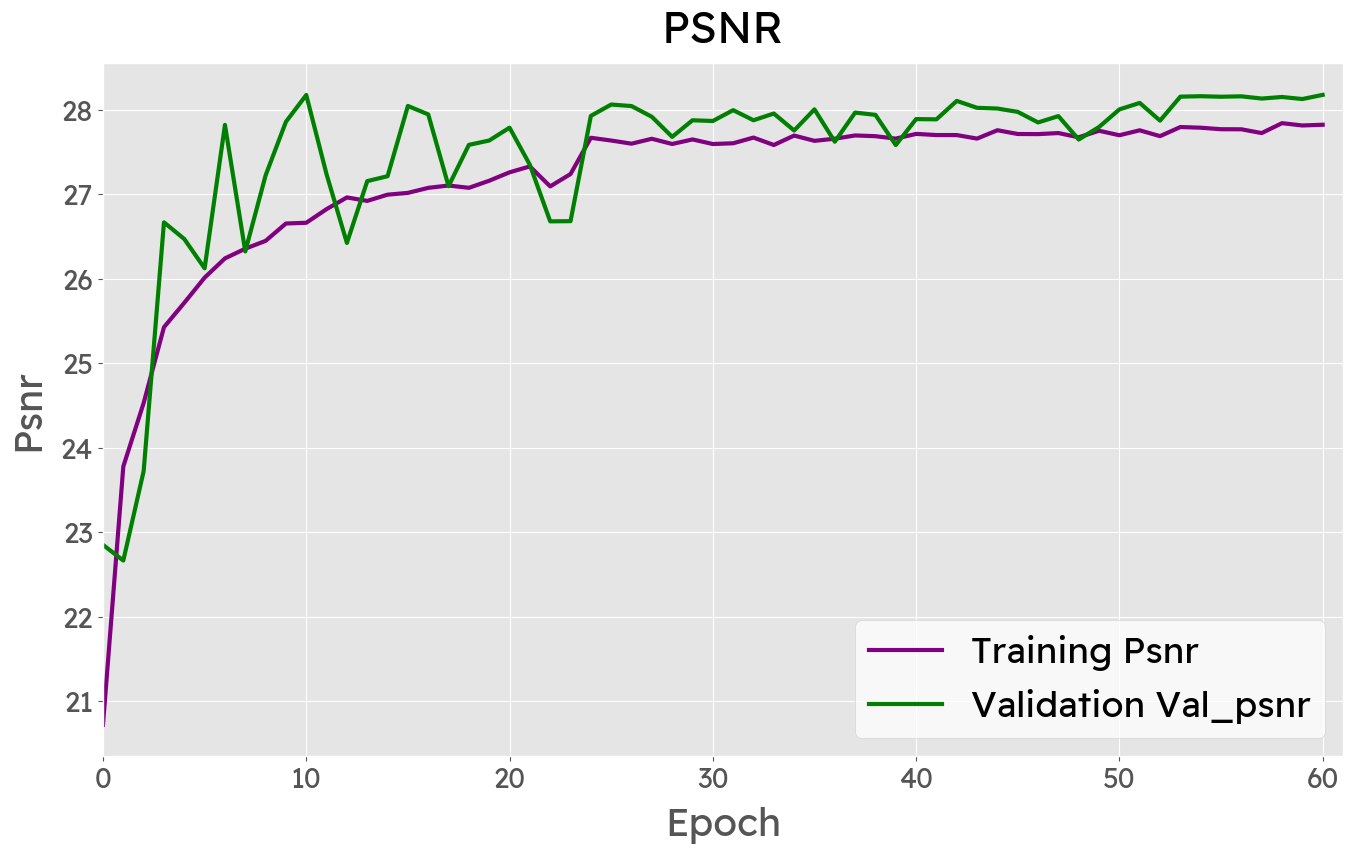
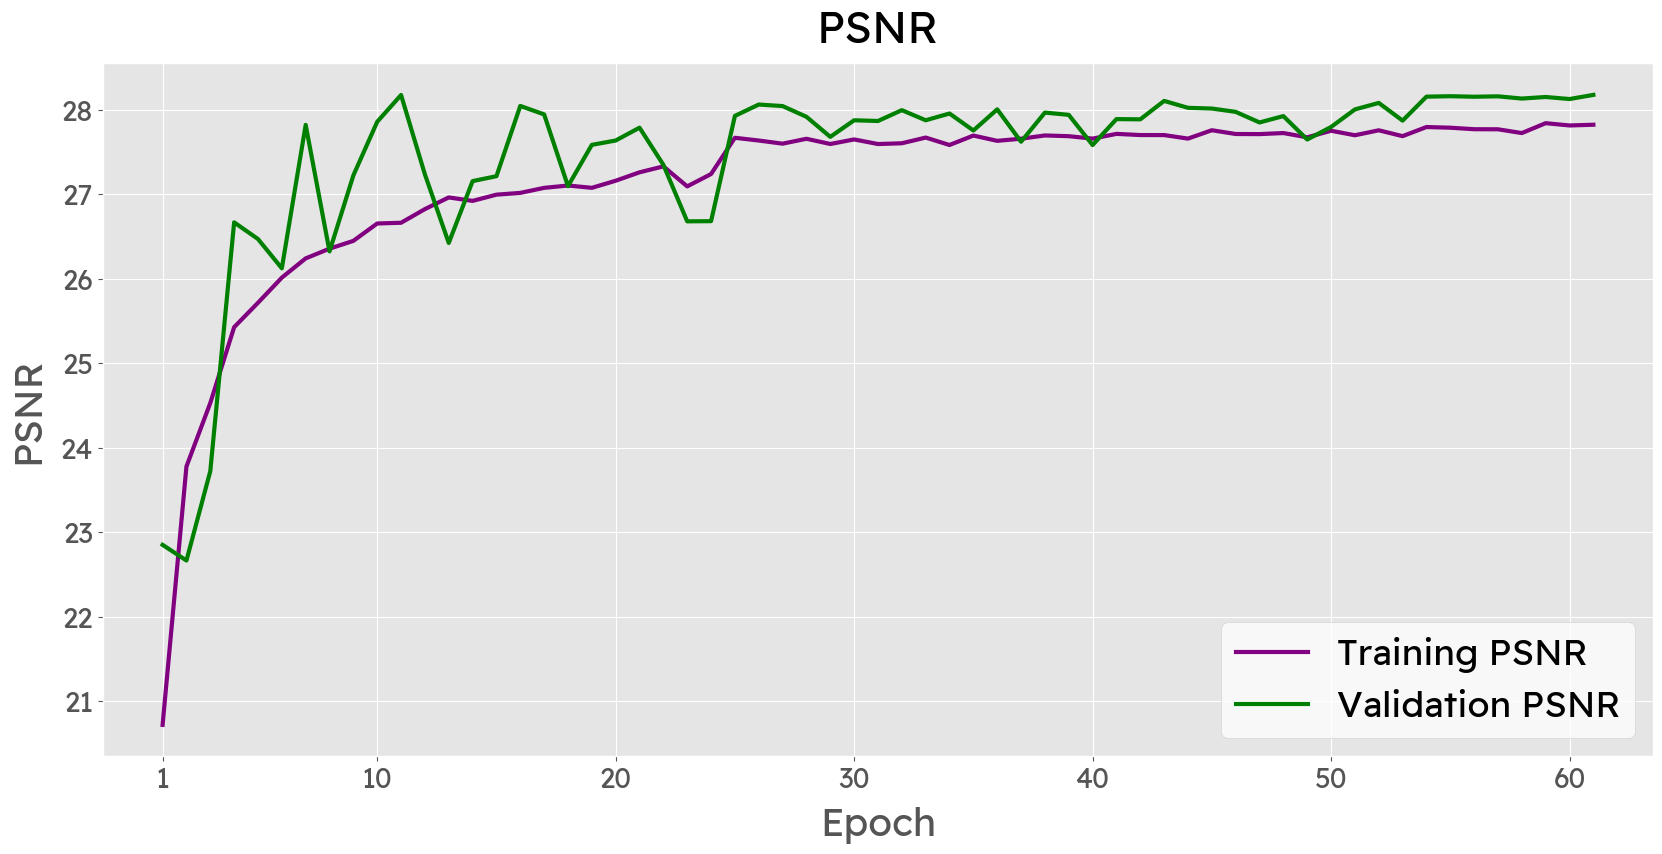
Correct graphs

diff --git a/graphs_generator.py b/graphs_generator.py
@@ -1,14 +1,36 @@
+from enum import Enum, unique
 from pathlib import Path
-from typing import Final
+from typing import Callable, Final
 
 import matplotlib as mpl
 from matplotlib import pyplot as plt
 import numpy as np
 
 
+@unique
+class TransformType(Enum):
+    """
+    The type of transform to use.
+    """
+    CAPITALIZE: Callable[[str], str] = str.capitalize
+    UPPER: Callable[[str], str] = str.upper
+
+    def __call__(self, string: str) -> str:
+        """
+        Call the transform function.
+
+        Args:
+            string (str): The string to transform
+
+        Returns:
+            str: The transformed string
+        """
+        return self.value(string)
+
+
 class GraphsGenerator:
 
-    __PLOT_SIZE: Final[tuple[int, int]] = (16, 9)
+    __PLOT_SIZE: Final[tuple[int, int]] = (20, 9)
 
     __PRIMARY_COLOR: Final[str] = 'purple'
     __SECONDARY_COLOR: Final[str] = 'green'
@@ -27,6 +49,7 @@ class GraphsGenerator:
     __LEGEND_FONT_SIZE: Final[int] = 26
 
     __PLOT_SKIP_SIZE: Final[int] = 10
+    __PLOT_PAD: Final[float] = 1.5
 
     def __init__(self, history: dict, output_dir: Path) -> None:
         mpl.rcParams['font.sans-serif'] = ['Readex Pro']
@@ -51,21 +74,21 @@ class GraphsGenerator:
     def output_dir(self, value):
         self.__output_dir = value
 
-    def __create_graph(self, parameter: str, title: str, legend_position: str) -> plt.Figure:
+    def __create_graph(self, parameter: str, title: str, legend_position: str, transform: TransformType) -> plt.Figure:
         figure, axis = plt.subplots(1, 1, figsize=self.__PLOT_SIZE)
 
         length = len(self.history['loss'])
-        dims = np.arange(0, length)
-        ticks = np.arange(0, length + 1, self.__PLOT_SKIP_SIZE)
+        dims = np.arange(1, length + 1)
+        ticks = np.concatenate((np.asanyarray([1]), np.arange(self.__PLOT_SKIP_SIZE, length, self.__PLOT_SKIP_SIZE)))
 
         train_parameter = parameter
-        train_parameter_label = F'Training {train_parameter.capitalize()}'
+        train_parameter_label = F'Training {transform(train_parameter)}'
         val_parameter = F'val_{train_parameter}'
-        val_parameter_label = F'Validation {val_parameter.capitalize()}'
+        val_parameter_label = F'Validation {transform(train_parameter)}'
 
         axis.plot(dims, self.history[train_parameter], label=train_parameter_label, color=self.__PRIMARY_COLOR, linewidth=self.__LINE_THICKNESS)
         axis.plot(dims, self.history[val_parameter], label=val_parameter_label, color=self.__SECONDARY_COLOR, linewidth=self.__LINE_THICKNESS)
-        axis.set(xlabel='Epoch', ylabel=parameter.capitalize())
+        axis.set(xlabel='Epoch', ylabel=transform(parameter))
         axis.set_title(title, pad=self.__TITLE_PADDING, size=self.__TITLE_FONT_SIZE)
         axis.legend(fontsize=self.__LEGEND_FONT_SIZE, facecolor=self.__LEGEND_COLOR, framealpha=self.__LEGEND_ALPHA, loc=legend_position)
         axis.set_xlim(xmin=1, xmax=length)
@@ -75,6 +98,7 @@ class GraphsGenerator:
         axis.xaxis.labelpad = self.__LABEL_PADDING
         axis.yaxis.labelpad = self.__LABEL_PADDING
         axis.set_xticks(ticks)
+        axis.set_xlim(- self.__PLOT_PAD, length + self.__PLOT_PAD + 1)
 
         return figure
 
@@ -83,21 +107,24 @@ class GraphsGenerator:
         figure.savefig(save_path, dpi=100, bbox_inches='tight')
 
     def create_loss_graph(self) -> None:
+        transform = TransformType.CAPITALIZE
         parameter = 'loss'
-        title = parameter.capitalize()
-        figure = self.__create_graph(parameter, title, 'upper right')
+        title = transform(parameter)
+        figure = self.__create_graph(parameter, title, 'upper right', transform)
         self.__save_graph(figure, parameter)
 
     def create_psnr_graph(self) -> None:
+        transform = TransformType.UPPER
         parameter = 'psnr'
-        title = parameter.upper()
-        figure = self.__create_graph(parameter, title, 'lower right')
+        title = transform(parameter)
+        figure = self.__create_graph(parameter, title, 'lower right', transform)
         self.__save_graph(figure, parameter)
 
     def create_ssim_graph(self) -> None:
+        transform = TransformType.UPPER
         parameter = 'ssim'
-        title = parameter.upper()
-        figure = self.__create_graph(parameter, title, 'lower right')
+        title = transform(parameter)
+        figure = self.__create_graph(parameter, title, 'lower right', transform)
         self.__save_graph(figure, parameter)
 
     def create_all_graphs(self) -> None:
